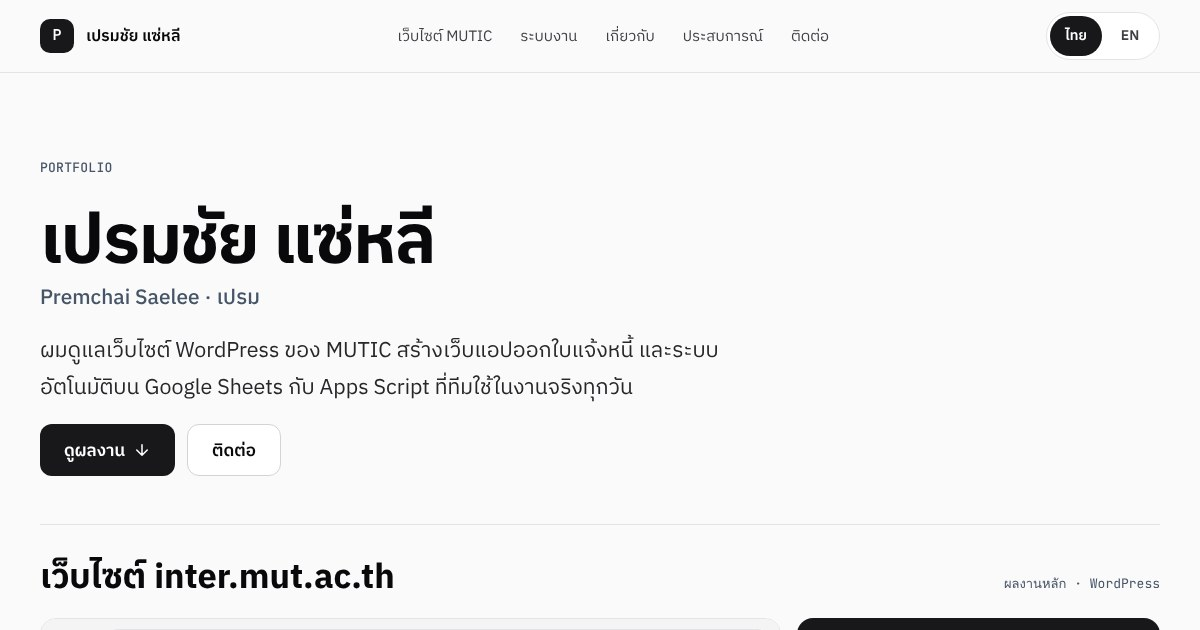
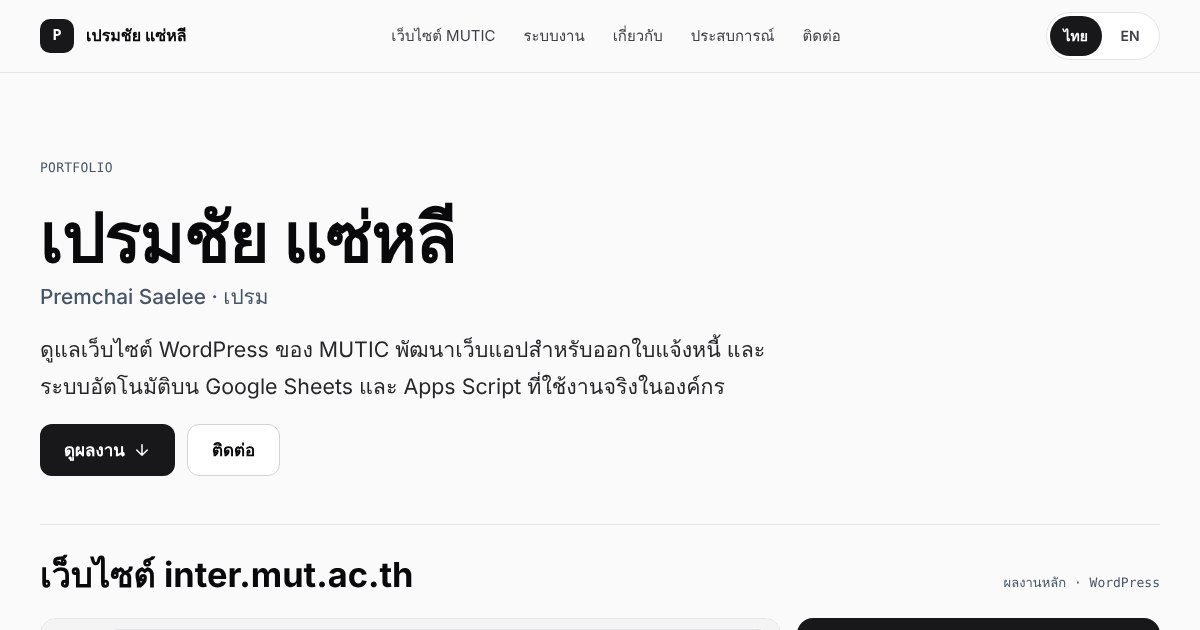
Rewrite copy in formal written style (TH/EN)
Remove first-person wording, tighten Thai and English copy, and refresh the social preview image.

Claude-Session: https://claude.ai/code/session_01JXGHoj28nXUv23LtbFPoP7

diff --git a/index.html b/index.html
@@ -279,7 +279,7 @@ var COPY = {
     heroEyebrow: `PORTFOLIO`,
     name: `เปรมชัย แซ่หลี`,
     altName: `Premchai Saelee · เปรม`,
-    heroLead: `ผมดูแลเว็บไซต์ WordPress ของ MUTIC สร้างเว็บแอปออกใบแจ้งหนี้ และระบบอัตโนมัติบน Google Sheets กับ Apps Script ที่ทีมใช้ในงานจริงทุกวัน`,
+    heroLead: `ดูแลเว็บไซต์ WordPress ของ MUTIC พัฒนาเว็บแอปสำหรับออกใบแจ้งหนี้ และระบบอัตโนมัติบน Google Sheets และ Apps Script ที่ใช้งานจริงในองค์กร`,
     btnWork: `ดูผลงาน`, btnContact: `ติดต่อ`,
     photo: `รูปโปรไฟล์\nเห็นหน้าชัด`,
     featTitle: `เว็บไซต์ inter.mut.ac.th`,
@@ -287,7 +287,7 @@ var COPY = {
     homeLabel: `หน้าแรก · นับถอยหลังรอบรับสมัคร 2 รอบ · สลับภาษา EN / 中文`,
     visit: `เปิดเว็บไซต์จริง`,
     shotHomeAlt: `ภาพหน้าจอหน้าแรกของ inter.mut.ac.th`,
-    roleLabel: `สิ่งที่ผมทำ`,
+    roleLabel: `ขอบเขตงาน`,
     featRole: `ดูแลและพัฒนาเนื้อหาเว็บไซต์ของวิทยาลัย`,
     featDid: [
       `หน้าหลักสูตร (MBA, PhD) และส่วนทุนการศึกษา`,
@@ -300,15 +300,15 @@ var COPY = {
     ],
     featTodo: `ต้องการ: ยืนยันขอบเขต · ทำหน้าไหนเองบ้าง`,
     stackLabel: `เครื่องมือ`,
-    stackNote: `ทำงานผ่านหน้าแอดมิน WordPress โดยไม่มีสิทธิ์ SSH หรือ cPanel ปัญหาระดับเซิร์ฟเวอร์จึงต้องวิเคราะห์ให้ชัดก่อนส่งต่อทีม IT`,
-    workTitle: `ระบบที่ผมสร้างและทีมใช้งานจริง`,
-    workSub: `ภาพหน้าจอจากระบบจริงปิดชื่อและยอดเงินไว้ ภาพประกอบอื่นเป็นข้อมูลจำลอง`,
-    lblProblem: `ปัญหาเดิม`, lblBuilt: `สิ่งที่สร้าง`, lblResult: `ผลลัพธ์`,
+    stackNote: `ดำเนินการผ่านหน้าผู้ดูแลระบบ WordPress โดยไม่มีสิทธิ์ SSH หรือ cPanel ปัญหาระดับเซิร์ฟเวอร์จึงวิเคราะห์สาเหตุก่อนส่งต่อฝ่าย IT`,
+    workTitle: `ระบบที่พัฒนาและใช้งานจริง`,
+    workSub: `ภาพหน้าจอจากระบบจริงปิดชื่อและยอดเงิน ภาพประกอบอื่นเป็นข้อมูลจำลอง`,
+    lblProblem: `ปัญหาเดิม`, lblBuilt: `สิ่งที่พัฒนา`, lblResult: `ผลลัพธ์`,
     todo: `ต้องการข้อมูล`,
     mock: `ตาราง → PDF → อีเมล (ข้อมูลจำลอง)`,
-    aboutTitle: `ผมไม่ได้เริ่มจากการเป็นโปรแกรมเมอร์`,
-    aboutP1: `ผมทำงานด้านรับสมัครและงานปฏิบัติการที่ MUTIC วิทยาลัยนานาชาติ มหาวิทยาลัยเทคโนโลยีมหานคร มา 4 ปี งานประจำของผมคือออกใบแจ้งหนี้ ส่งจดหมายตอบรับ ส่งอีเมลถึงคนจำนวนมาก ดูแลข้อมูลนักศึกษา และดูแลเว็บไซต์`,
-    aboutP2: `งานพวกนี้ซ้ำทุกรอบ ผมเลยสร้างระบบให้มันทำเอง และทีมก็ใช้ระบบเหล่านั้นในงานจริง เพราะผมเป็นคนใช้เองทุกวัน ผมจึงออกแบบระบบจากมุมของคนใช้งาน ไม่ใช่จากมุมของคนเขียนโค้ด`,
+    aboutTitle: `จากงานปฏิบัติการสู่การพัฒนาระบบ`,
+    aboutP1: `ประสบการณ์ 4 ปีในงานรับสมัครและงานปฏิบัติการที่ MUTIC วิทยาลัยนานาชาติ มหาวิทยาลัยเทคโนโลยีมหานคร รับผิดชอบการออกใบแจ้งหนี้ จดหมายตอบรับ อีเมลถึงผู้สมัครและนักศึกษา ข้อมูลนักศึกษา และเว็บไซต์ของวิทยาลัย`,
+    aboutP2: `งานดังกล่าวเกิดซ้ำทุกภาคการศึกษา จึงพัฒนาระบบอัตโนมัติขึ้นรองรับ และทีมใช้งานระบบเหล่านั้นในงานจริง ระบบทั้งหมดออกแบบจากมุมมองของผู้ใช้งาน เนื่องจากผู้พัฒนาเป็นผู้ใช้งานเองเป็นประจำ`,
     aboutTodo: `ต้องการ: ยืนยันว่าตรงกับความจริง`,
     s1n: `4 ปี`, s1l: `งานรับสมัครและงานปฏิบัติการ`,
     s2l: `ใบแจ้งหนี้เก่า ย้ายเข้าระบบเดียว`,
@@ -323,12 +323,12 @@ var COPY = {
       `ดูแลเว็บไซต์ WordPress ของวิทยาลัย (inter.mut.ac.th)`,
       `ออกใบแจ้งหนี้ให้นักศึกษาต่างชาติ`,
       `ออกและส่งจดหมายตอบรับ (Offer letter)`,
-      `ทำแคมเปญอีเมลถึงผู้สมัครและนักศึกษา`,
+      `จัดทำแคมเปญอีเมลถึงผู้สมัครและนักศึกษา`,
       `ดูแลข้อมูลนักศึกษา`,
-      `สร้างและดูแลระบบภายในให้ทีม ทั้งเว็บแอป (Next.js + Supabase) และระบบบน Google Apps Script กับ Google Sheets`
+      `พัฒนาและดูแลระบบภายในองค์กร ทั้งเว็บแอป (Next.js + Supabase) และระบบบน Google Apps Script และ Google Sheets`
     ],
     contactTitle: `ติดต่อ`,
-    contactText: `อยากคุยเรื่องงาน หรือดูรายละเอียดผลงานเพิ่ม ติดต่อได้ทางช่องทางเหล่านี้`,
+    contactText: `ติดต่อเรื่องงาน หรือขอรายละเอียดผลงานเพิ่มเติม`,
     emailTodo: `ต้องการ: อีเมลส่วนตัว (ไม่ใช่อีเมลที่ทำงาน)`,
     githubTodo: `ต้องการ: ลิงก์ GitHub`
   },
@@ -338,15 +338,15 @@ var COPY = {
     heroEyebrow: `PORTFOLIO`,
     name: `Premchai Saelee`,
     altName: `เปรมชัย แซ่หลี · Prem`,
-    heroLead: `I look after MUTIC’s WordPress website, built the web app we use for invoicing, and build automation with Google Sheets and Apps Script that my team uses every day.`,
-    btnWork: `See my work`, btnContact: `Get in touch`,
+    heroLead: `WordPress website management for MUTIC, an invoicing web app, and Google Sheets / Apps Script automation in daily use across the organization.`,
+    btnWork: `View work`, btnContact: `Contact`,
     photo: `Profile photo\nface clearly visible`,
     featTitle: `inter.mut.ac.th`,
     featKicker: `Featured · WordPress`,
     homeLabel: `Homepage · countdowns for two intakes · EN / 中文 switch`,
     visit: `Visit the live site`,
     shotHomeAlt: `Screenshot of the inter.mut.ac.th homepage`,
-    roleLabel: `What I do`,
+    roleLabel: `Scope`,
     featRole: `Maintaining and building content for the college website`,
     featDid: [
       `Program pages (MBA, PhD) and scholarship sections`,
@@ -359,15 +359,15 @@ var COPY = {
     ],
     featTodo: `TODO: confirm scope · which pages I built`,
     stackLabel: `Stack`,
-    stackNote: `Work happens through the WordPress admin without SSH or cPanel access, so server-level problems have to be diagnosed clearly before they go to IT.`,
-    workTitle: `Systems I’ve built that my team uses`,
+    stackNote: `Managed through the WordPress admin without SSH or cPanel access; server-level issues are diagnosed before escalation to IT.`,
+    workTitle: `Systems in production`,
     workSub: `Screenshots from live systems have names and amounts blurred; other visuals use mock data.`,
-    lblProblem: `Problem`, lblBuilt: `What I built`, lblResult: `Result`,
+    lblProblem: `Problem`, lblBuilt: `Solution`, lblResult: `Result`,
     todo: `Needs info`,
     mock: `Sheet → PDF → email (mock data)`,
-    aboutTitle: `I didn’t start out as a programmer`,
-    aboutP1: `I’ve worked in admissions and operations at MUTIC, Mahanakorn University of Technology International College, for four years. My day-to-day is invoices, offer letters, email campaigns, student records and the college website.`,
-    aboutP2: `That work repeats every intake, so I started building systems to do it, and the team now relies on them. Because I use them every day myself, I design from the user’s side, not the code’s.`,
+    aboutTitle: `From operations to systems development`,
+    aboutP1: `Four years in admissions and operations at MUTIC, Mahanakorn University of Technology International College, covering invoicing, offer letters, applicant and student email, student records and the college website.`,
+    aboutP2: `This work repeats every semester, so automated systems were developed to handle it, and the team now uses them in daily operations. Each system is designed from the user’s side, as its developer is also a daily user.`,
     aboutTodo: `TODO: confirm this is accurate`,
     s1n: `4 yrs`, s1l: `in admissions and operations`,
     s2l: `legacy invoices migrated into one system`,
@@ -387,7 +387,7 @@ var COPY = {
       `Building and maintaining the team’s internal tools: a Next.js + Supabase web app and Google Apps Script / Sheets automation`
     ],
     contactTitle: `Contact`,
-    contactText: `Want to talk, or see more of a project? Reach me through any of these.`,
+    contactText: `For work inquiries or further detail on any project.`,
     emailTodo: `TODO: personal email (not work)`,
     githubTodo: `TODO: GitHub link`
   }
@@ -430,7 +430,7 @@ var GALLERY = {
 var PROJECTS = {
   th: [
     { span: 12, gallery: true, title: `MUTIC Invoice Studio — เว็บแอปออกและติดตามใบแจ้งหนี้`, status: `ใช้งานจริง`, kind: `ok`,
-      problem: `ต่อยอดระบบใบแจ้งหนี้จาก Google Sheets ขึ้นเป็นเว็บแอป ผมเป็นคนออกใบแจ้งหนี้ ส่วนทีมเข้าดูได้อย่างเดียว`,
+      problem: `ระบบใบแจ้งหนี้บน Google Sheets ต้องการพื้นที่ทำงานร่วมกันของทีม โดยแยกสิทธิ์ผู้ออกใบแจ้งหนี้และผู้ดูข้อมูล`,
       built: `แดชบอร์ดการเงิน (ยอดเรียกเก็บ เก็บได้ คงค้าง เกินกำหนด) และอายุหนี้ค้างชำระแยกช่วงตั้งแต่ 1–30 ถึงเกิน 90 วัน · สร้างใบแจ้งหนี้จากคำสั่งประโยคเดียว ระบบกรอกฟอร์มให้ แล้วพิมพ์เป็น PDF หรือร่างอีเมลต่อได้ทันที · ทะเบียนนักศึกษา นำเข้า CSV บันทึกการรับชำระ แนบสลิป และยืนยันยอดเทียบกับ statement · เข้าระบบได้เฉพาะบัญชี @mut.ac.th`,
       result: `ใช้ออกและติดตามใบแจ้งหนี้ของวิทยาลัยอยู่ในปัจจุบัน`,
       tools: [`Next.js`, `Supabase`, `Vercel`, `NextAuth`] },
@@ -439,30 +439,30 @@ var PROJECTS = {
       built: `จัดโครงสร้างข้อมูลใหม่ สร้าง PDF และส่งทาง Gmail อัตโนมัติ เลขที่ใบแจ้งหนี้กันซ้ำด้วย LockService ออกเป็นชุดผ่าน sidebar ติดตามการผ่อนเป็นงวด แนบใบที่ยกเลิก (VOID) ได้ และส่งอีเมลเตือนทีมก่อนครบกำหนดชำระ`,
       result: `รวมจาก 25 ชีตเหลือ 7 ชีต ย้ายใบแจ้งหนี้เก่า 658 ใบเข้าระบบเดียว และรองรับตั้งแต่ออกจดหมายตอบรับจนถึงลงทะเบียน`,
       tools: [`Google Apps Script`, `Google Sheets`, `Gmail`, `Google Drive`] },
-    { span: 6, title: `ส่งอีเมลจำนวนมาก แต่ละคนได้เนื้อหาที่ตรงกับตัวเอง`, status: `ใช้งานจริง`, kind: `ok`,
+    { span: 6, title: `ระบบส่งอีเมลจำนวนมากตามเงื่อนไขผู้รับ`, status: `ใช้งานจริง`, kind: `ok`,
       problem: `จดหมายตอบรับ ประกาศตารางเรียน และประกาศผลการเรียน ต้องส่งถึงคนจำนวนมาก และแต่ละคนต้องได้แม่แบบ รูป และลิงก์ที่ตรงกับสาขาและสถานะของตัวเอง`,
       built: `ชุดสคริปต์ส่งอีเมลจากชีต เลือกแม่แบบ HTML ตามเงื่อนไข (มี/ไม่มีเงื่อนไข มี/ไม่มีทุน) เลือกรูปตารางเรียนและลิงก์ดาวน์โหลดตามสาขาและชั้นปี ส่งทดสอบก่อนส่งจริง CC เอเจนต์รายแถว และบันทึกสถานะ Sent / Waiting กันส่งซ้ำ`,
       result: `ใช้ส่งจดหมายตอบรับ ประกาศตารางเรียน และประกาศผลการเรียนทุกภาคการศึกษา`,
       tools: [`Apps Script`, `Gmail`, `HtmlService`, `MJML`] },
     { span: 4, title: `ดึงข้อมูลจากฟอร์มและอีเมลเข้า Google Sheets`, status: `ใช้งานจริง`, kind: `ok`,
-      problem: `ข้อมูลผู้สมัครจากฟอร์มใน HubSpot และอีเมลก่อนลงทะเบียน ต้องคัดลอกมาลงตารางเอง`,
+      problem: `ข้อมูลผู้สมัครจากฟอร์มใน HubSpot และอีเมลก่อนลงทะเบียนต้องคัดลอกลงตารางด้วยมือ`,
       built: `เชื่อม HubSpot เข้า Google Sheets ผ่าน webhook และดึงข้อมูลจากอีเมลก่อนลงทะเบียนด้วย regex มาเป็นตาราง 12 คอลัมน์`,
-      result: `ข้อมูลผู้สมัครเข้าตารางเอง และใช้ต่อในการคำนวณค่าเล่าเรียน ทุน และค่าธรรมเนียม`,
+      result: `ข้อมูลผู้สมัครเข้าสู่ตารางโดยอัตโนมัติ และนำไปใช้คำนวณค่าเล่าเรียน ทุน และค่าธรรมเนียมต่อ`,
       tools: [`Apps Script`, `HubSpot`, `Gmail`, `Google Sheets`] },
     { span: 4, title: `Dashboard ติดตามเคสและมอบหมายงานในทีม`, status: `ใช้งานจริง`, kind: `ok`,
       problem: `เคสนักศึกษาหลายประเภท ตั้งแต่ถอนรายวิชา ย้ายสาขา การชำระเงิน ไปจนถึงขอเอกสาร ต้องแบ่งกันดูแลหลายคน`,
       built: `Dashboard แยกงานตามผู้รับผิดชอบ กรองตามคน รายการนักศึกษาพร้อมลำดับความสำคัญและสถานะ กดดูรายละเอียดเคสได้ และหน้า Task Management นับงาน Pending / In Progress / Completed / Cancelled พร้อมวันเริ่มและวันครบกำหนด`,
-      result: `ทีมเห็นในหน้าเดียวว่าเคสไหนอยู่กับใคร ถึงขั้นไหน และใกล้ครบกำหนด`,
+      result: `ติดตามได้ในหน้าเดียวว่าเคสใดอยู่กับผู้รับผิดชอบคนใด อยู่ในขั้นตอนใด และใกล้ครบกำหนดหรือไม่`,
       tools: [`Google Sheets`, `Apps Script`] },
     { span: 4, title: `รายการงานและปฏิทิน แจ้งเตือนผ่าน LINE`, status: `ใช้งานจริง`, kind: `ok`,
-      problem: `งานที่มีกำหนดส่งต้องคอยเปิดตารางเช็คเอง`,
-      built: `รายการงานและปฏิทินบน Google Sheets ที่ส่งแจ้งเตือนเข้า LINE เป็นการ์ดข้อความ (Flex Message)`,
-      result: `ได้แจ้งเตือนงานใน LINE โดยไม่ต้องเปิดตาราง`,
+      problem: `ต้องเปิดตารางเพื่อตรวจสอบงานที่ใกล้กำหนดส่งเป็นประจำ`,
+      built: `รายการงานและปฏิทินบน Google Sheets ที่ส่งแจ้งเตือนเข้า LINE ในรูปแบบการ์ดข้อความ (Flex Message)`,
+      result: `แจ้งเตือนงานส่งตรงเข้า LINE โดยไม่ต้องเปิดตาราง`,
       tools: [`Apps Script`, `Google Sheets`, `LINE Messaging API`] }
   ],
   en: [
     { span: 12, gallery: true, title: `MUTIC Invoice Studio — invoicing web app`, status: `In production`, kind: `ok`,
-      problem: `Took the Google Sheets invoice system further as a web app: I issue the invoices, and the team has view-only access.`,
+      problem: `The Google Sheets invoice system needed a shared workspace with separate roles for issuing invoices and view-only access.`,
       built: `A finance dashboard (billed, collected, outstanding, overdue) with AR aging from 1–30 to 90+ days · invoices drafted from a one-sentence command that fills in the form, then printed to PDF or turned into an email draft · a student registry with CSV import, payment recording, slip uploads and reconciliation against the bank statement · sign-in limited to @mut.ac.th accounts`,
       result: `In use today for issuing and tracking the college’s invoices.`,
       tools: [`Next.js`, `Supabase`, `Vercel`, `NextAuth`] },
